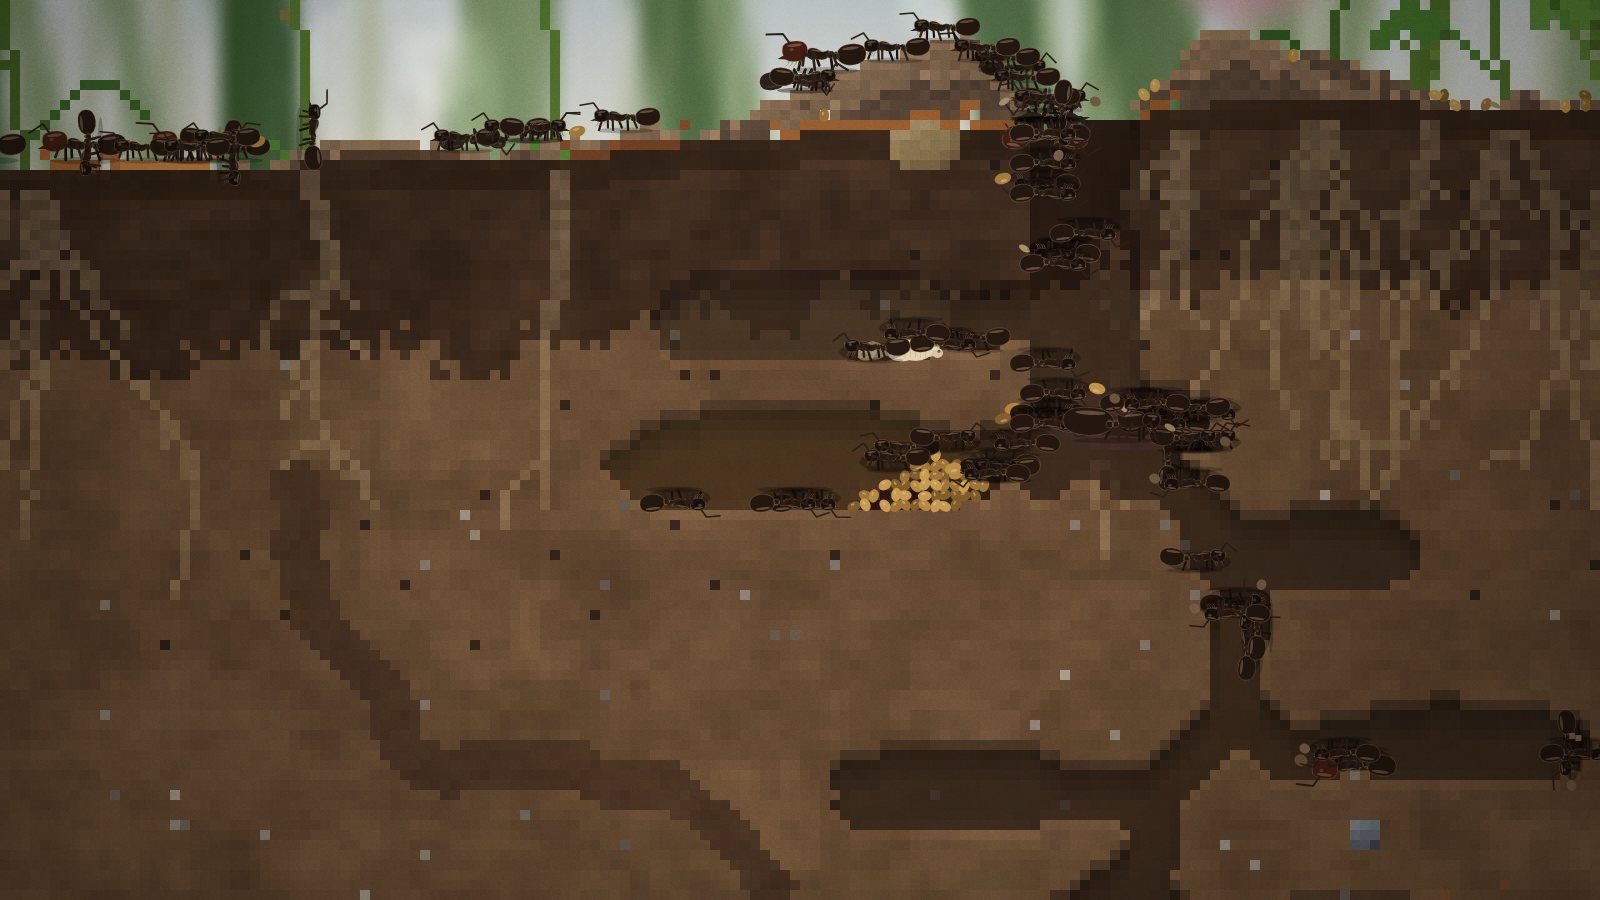
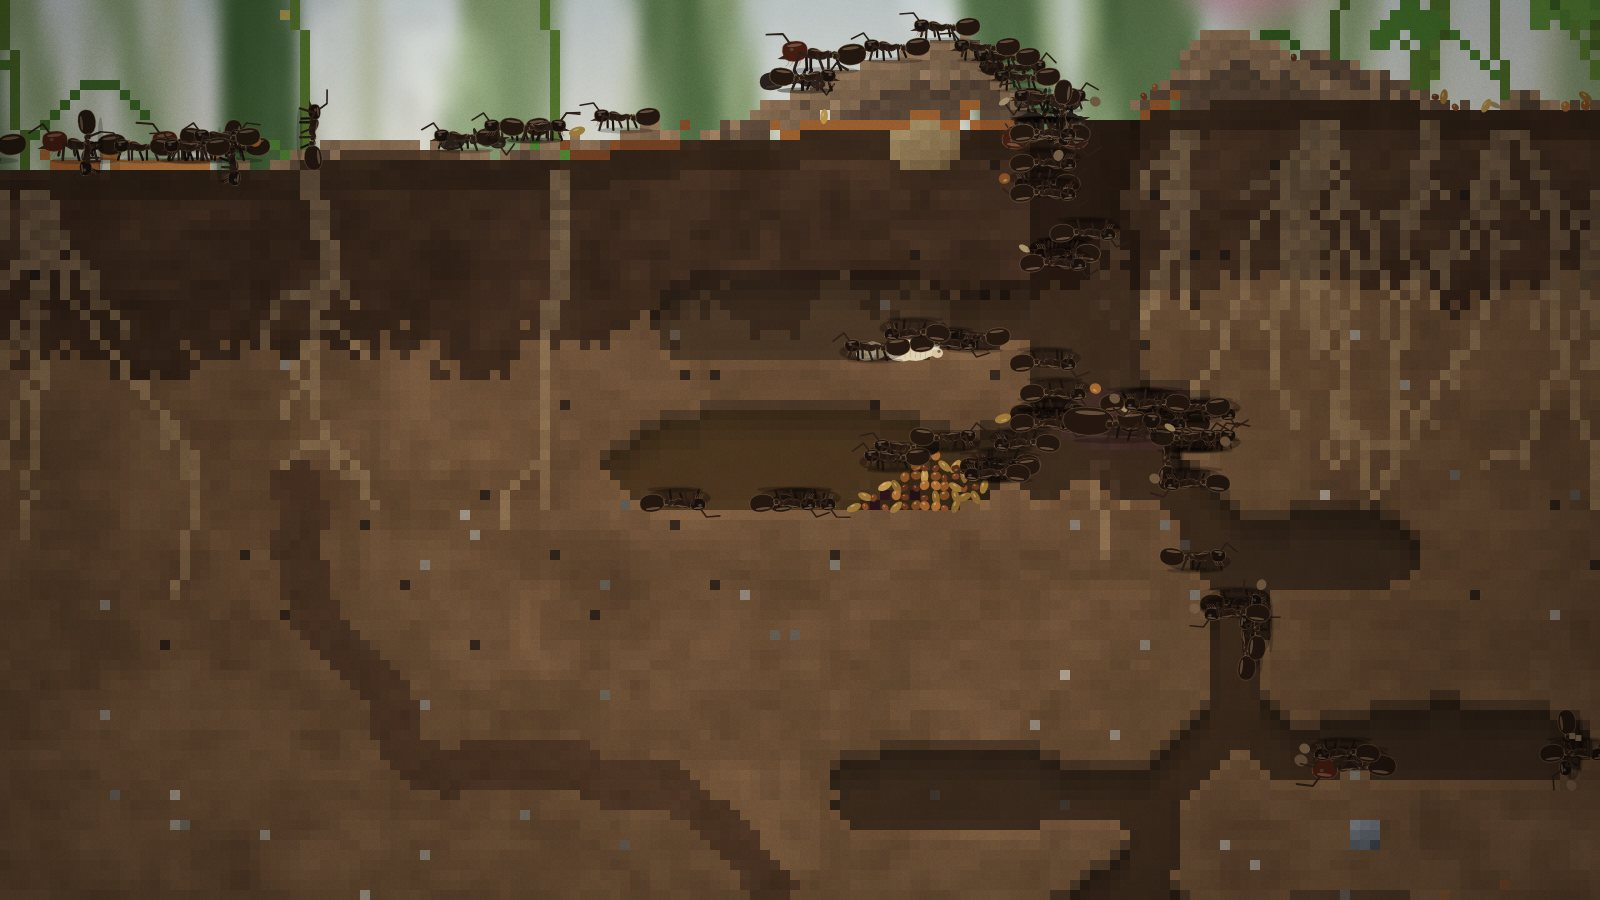
art: seed shape and colour by plant species (grass, clover, shepherd's purse)
Claude-Session: https://claude.ai/code/session_017q7j2f33iEyZSFUtMaJ7Vu

diff --git a/src/render/renderer.ts b/src/render/renderer.ts
@@ -3,7 +3,10 @@ import {
   EMPTY, HUMUS, LOAM, CLAY, SUBSOIL, GRAVEL, STONE, ROOT, SAND, WATER, STEM, LEAF, FLOWER,
   SEED, REFUSE, LITTER, FRUIT, BEDROCK, SOLID,
 } from '../world/mat';
-import { PAL, RGB, ZONE_TINT, hex, mixRGB, pack, sampleRamp } from './palette';
+import { PAL, RGB, ZONE_TINT, hex, mixRGB, pack, sampleRamp, seedLook } from './palette';
+
+/** Tone buckets for drawing seeds (each species gets four shades). */
+const SEED_BUCKETS = 12;
 import { Backdrop, skyAt } from './backdrop';
 import { Camera } from './camera';
 import { AntPainter } from './antdraw';
@@ -162,7 +165,7 @@ export class Renderer {
           c = this.backwall(i, x, y);
           return pack(c[0], c[1], c[2]);
         }
-        c = m === SEED ? sampleRamp(PAL.seed, tone) : w.tint[i] === SPROUT ? sampleRamp(PAL.leaf, 0.75) : sampleRamp(PAL.refuse, tone);
+        c = m === SEED ? seedLook(w.tone[i]!).col : w.tint[i] === SPROUT ? sampleRamp(PAL.leaf, 0.75) : sampleRamp(PAL.refuse, tone);
         break;
       case LITTER: c = w.tint[i] === 1 ? sampleRamp(PAL.twig, tone) : sampleRamp(PAL.leafLitter, tone); break;
       case FRUIT: c = sampleRamp(PAL.fruit, tone); break;
@@ -419,10 +422,8 @@ export class Renderer {
     const B = 4;
     const seedPaths: Path2D[] = [];
     const huskPaths: Path2D[] = [];
-    for (let k = 0; k < B; k++) {
-      seedPaths.push(new Path2D());
-      huskPaths.push(new Path2D());
-    }
+    for (let k = 0; k < B; k++) huskPaths.push(new Path2D());
+    for (let k = 0; k < SEED_BUCKETS; k++) seedPaths.push(new Path2D());
     const gloss = new Path2D();
     const shoots = new Path2D();
     let any = false;
@@ -442,11 +443,16 @@ export class Renderer {
         const cy = y + 0.55 + jy;
         const b = Math.min(B - 1, (w.tone[i]! * B) >> 8);
         if (m === SEED) {
-          const p = seedPaths[b]!;
-          p.moveTo(cx + 0.68 * Math.cos(rot), cy + 0.68 * Math.sin(rot));
-          p.ellipse(cx, cy, 0.68, 0.5, rot, 0, Math.PI * 2);
-          gloss.moveTo(cx - 0.12 + 0.2, cy - 0.2);
-          gloss.ellipse(cx - 0.12, cy - 0.2, 0.2, 0.1, rot, 0, Math.PI * 2);
+          // Grouped by species and shade: one path per tone bucket.
+          const look = seedLook(w.tone[i]!);
+          const sb = Math.min(SEED_BUCKETS - 1, (w.tone[i]! * SEED_BUCKETS) >> 8);
+          const p = seedPaths[sb]!;
+          const rx = look.rx * 0.95;
+          const ry = look.ry * 0.95;
+          p.moveTo(cx + rx * Math.cos(rot), cy + rx * Math.sin(rot));
+          p.ellipse(cx, cy + 0.5 - ry, rx, ry, rot, 0, Math.PI * 2);
+          gloss.moveTo(cx - 0.1 + rx * 0.3, cy + 0.5 - ry * 1.5);
+          gloss.ellipse(cx - 0.1, cy + 0.5 - ry * 1.5, rx * 0.3, ry * 0.22, rot, 0, Math.PI * 2);
         } else if (w.tint[i] === SPROUT) {
           // A germinated seed: the grain with a pale root and a green shoot.
           const p = seedPaths[b]!;
@@ -466,7 +472,9 @@ export class Renderer {
     for (let k = 0; k < B; k++) {
       ctx.fillStyle = lit(sampleRamp(PAL.refuse, 0.35 + (k / B) * 0.6));
       ctx.fill(huskPaths[k]!);
-      ctx.fillStyle = lit(sampleRamp(PAL.seed, (k + 0.5) / B));
+    }
+    for (let k = 0; k < SEED_BUCKETS; k++) {
+      ctx.fillStyle = lit(seedLook(((k + 0.5) * 256) / SEED_BUCKETS).col);
       ctx.fill(seedPaths[k]!);
     }
     ctx.fillStyle = lit([255, 236, 196], 0.45);

diff --git a/src/world/plants.ts b/src/world/plants.ts
@@ -2,6 +2,7 @@ import { Rng } from '../util/rng';
 import { World } from './world';
 import { EMPTY, STEM, LEAF, FLOWER, SEEDHEAD, SEED, ROOT, SOIL, SOLID } from './mat';
 import { TICK_HZ } from '../config';
+import { SEED_TONE } from '../render/palette';
 
 export type PlantKind = 'grass' | 'clover' | 'purse';
 
@@ -76,7 +77,7 @@ export class Plants {
     this.list.push(p);
     if (instant) {
       while (!p.mature) this.growStep(p);
-      for (const s of p.slots) if (this.rng.chance(0.6) && w.mat[s] === EMPTY && !w.plant[s]) w.setPlant(s, SEEDHEAD, this.rng.int(0, 255));
+      for (const s of p.slots) if (this.rng.chance(0.6) && w.mat[s] === EMPTY && !w.plant[s]) w.setPlant(s, SEEDHEAD, this.seedTone(p));
     }
     return p;
   }
@@ -226,6 +227,12 @@ export class Plants {
     }
   }
 
+  /** Seed tone carries the species (see seedLook in the palette). */
+  private seedTone(p: Plant): number {
+    const [lo, hi] = SEED_TONE[p.kind]!;
+    return this.rng.int(lo, hi);
+  }
+
   /** Take a plant out entirely: stem, leaves, flowers and any seeds still on it. */
   remove(p: Plant): void {
     const w = this.world;
@@ -254,7 +261,7 @@ export class Plants {
         // Ripen one empty slot that still hangs off the plant.
         const s = p.slots[this.rng.int(0, p.slots.length - 1)];
         if (s !== undefined && w.mat[s] === EMPTY && !w.plant[s] && !w.plan[s] && this.attached(s)) {
-          w.setPlant(s, SEEDHEAD, this.rng.int(0, 255));
+          w.setPlant(s, SEEDHEAD, this.seedTone(p));
           this.ripened++;
         }
       }

diff --git a/src/render/antdraw.ts b/src/render/antdraw.ts
@@ -3,7 +3,7 @@ import type { Brood, Corpse } from '../sim/brood';
 import type { World } from '../world/world';
 import { Carry, Task } from '../sim/types';
 import { SOLID } from '../world/mat';
-import { PAL, RGB, hex, mixRGB, sampleRamp } from './palette';
+import { PAL, RGB, hex, mixRGB, sampleRamp, seedLook } from './palette';
 
 /**
  * Ants are the subject of the shot, so unlike the soil they are drawn at the
@@ -554,13 +554,15 @@ export class AntPainter {
       ctx.fill();
     };
     switch (a.carry) {
-      case Carry.Seed:
-        blob(0.85, 0.55, sampleRamp(PAL.seed, a.carryTone / 255), -0.3);
+      case Carry.Seed: {
+        const look = seedLook(a.carryTone);
+        blob(look.rx * 1.05, look.ry * 1.1, look.col, -0.3);
         ctx.fillStyle = css([255, 240, 200], l, 0.35);
         ctx.beginPath();
-        ctx.ellipse(mx + 0.4, my - 0.22, 0.35, 0.14, -0.3, 0, Math.PI * 2);
+        ctx.ellipse(mx + look.rx * 0.5, my - look.ry * 0.4, look.rx * 0.4, look.ry * 0.25, -0.3, 0, Math.PI * 2);
         ctx.fill();
         break;
+      }
       case Carry.Soil:
         blob(0.55, 0.48, mixRGB(sampleRamp(PAL.loam, a.carryTone / 255), [230, 215, 190], 0.14), 0.4);
         break;

diff --git a/src/render/palette.ts b/src/render/palette.ts
@@ -56,6 +56,28 @@ export const PAL = {
   fruit: ramp('#24111a', '#361822', '#48202b', '#5a2a34'),
 };
 
+/**
+ * A seed's tone also says which plant it came from: grass seed (long, golden),
+ * clover (round, orange-brown) or shepherd's purse (tiny, red-brown).
+ */
+const SEED_RAMPS = [
+  ramp('#8a6a30', '#a5803c', '#c09a4c', '#d4b060'),
+  ramp('#7a4a22', '#94592a', '#ad6c34', '#c07e40'),
+  ramp('#5a2e1c', '#703a22', '#87482a', '#9a5634'),
+];
+const SEED_SIZE: [number, number][] = [[0.8, 0.4], [0.55, 0.48], [0.4, 0.32]];
+
+/** Colour and half-size (mm) of a seed of this tone. */
+export const seedLook = (tone: number): { col: RGB; rx: number; ry: number } => {
+  const kind = tone < 86 ? 0 : tone < 171 ? 1 : 2;
+  const t = (tone - kind * 85.33) / 85.33;
+  const [rx, ry] = SEED_SIZE[kind]!;
+  return { col: sampleRamp(SEED_RAMPS[kind]!, t), rx, ry };
+};
+
+/** Tone range for seed from each kind of plant. */
+export const SEED_TONE: Record<string, [number, number]> = { grass: [0, 85], clover: [86, 170], purse: [171, 255] };
+
 /** Chamber floor tints so rooms read at a glance (applied to the back wall). */
 export const ZONE_TINT: Record<string, RGB> = {
   queen: hex('#5a3350'),
